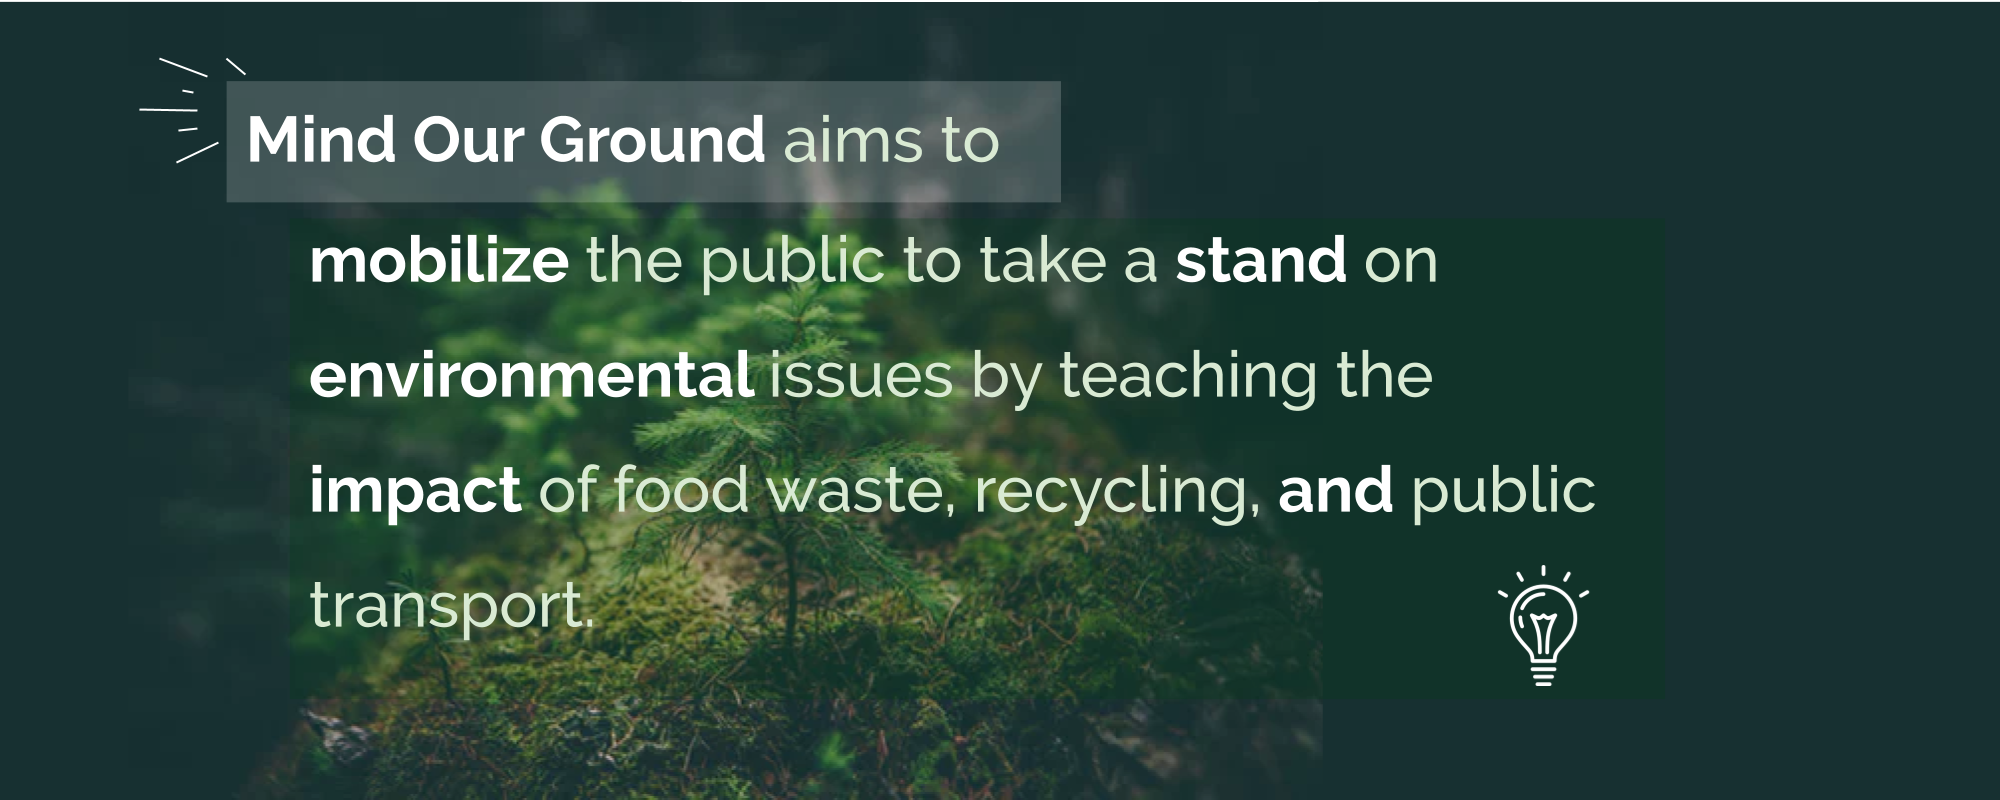
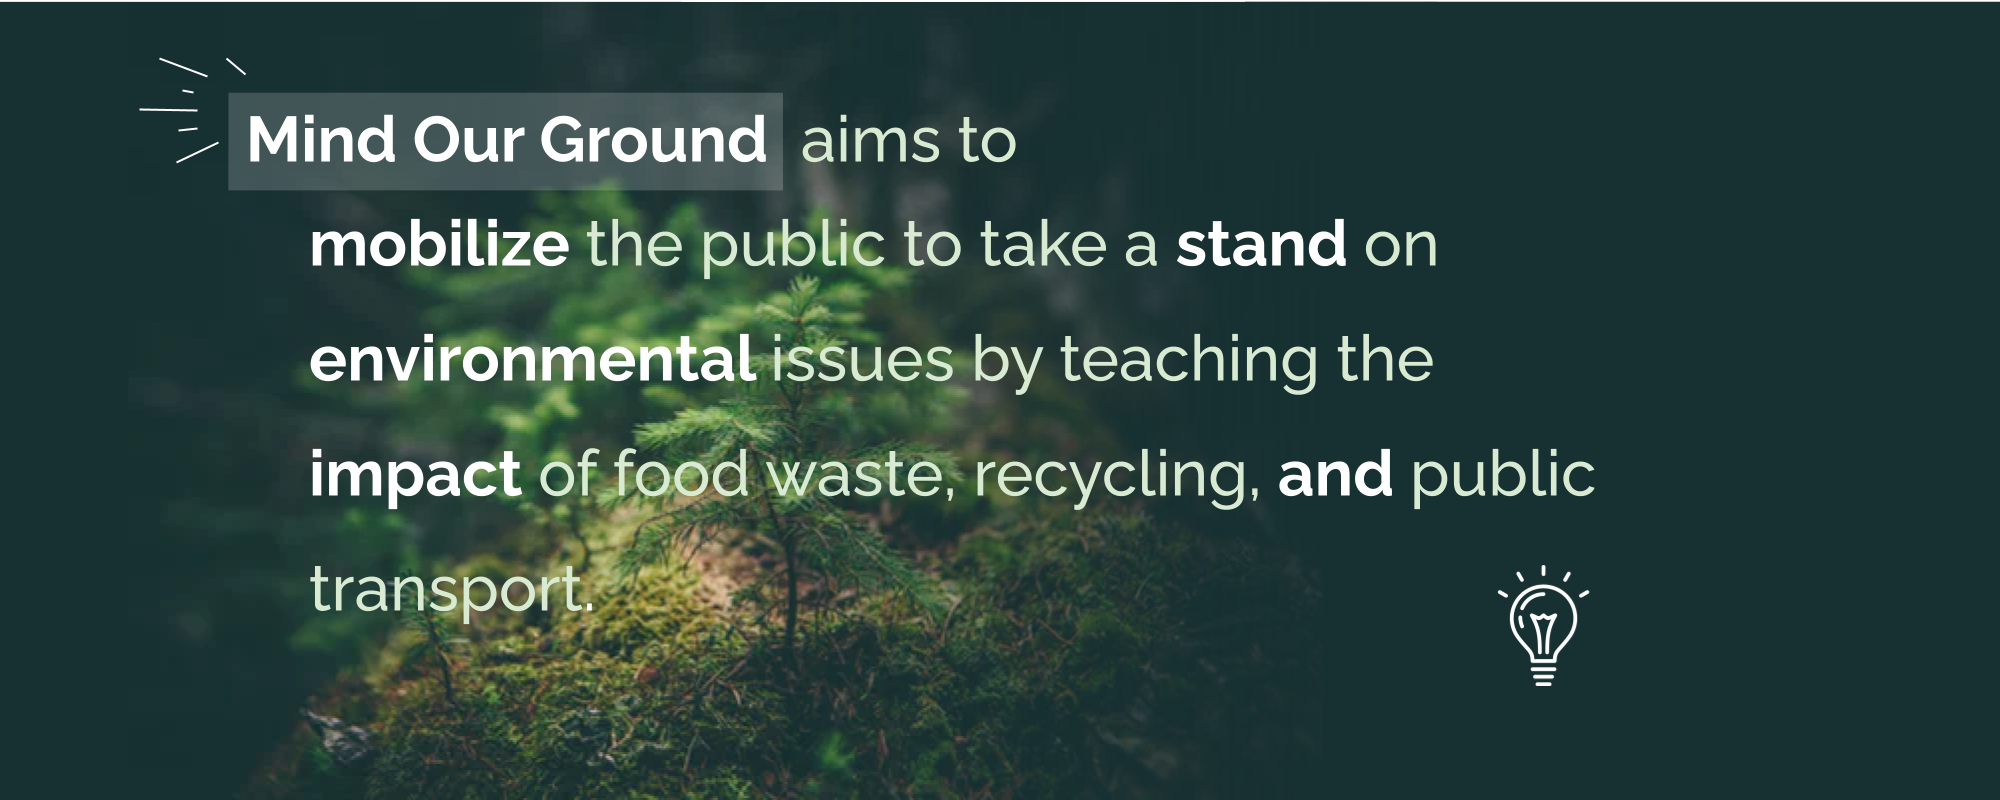
centered gallery and header

Changed region(s): [[0.093, 0.0938, 0.806, 0.875], [0.558, 0.9062, 0.589, 0.9688]]

diff --git a/index.html b/index.html
@@ -5,44 +5,37 @@
   <link href='https://fonts.googleapis.com/css?family=Raleway:300,700' rel='stylesheet'>
   <link rel="stylesheet" type="text/css" href="styles.css">
   <script src="main.js"></script>
+
   <link rel="shortcut icon" href="fav.png" type="image/x-icon" style = width: 100px>
-  <title>Mind Our Ground</title>
+  <title> Mind Our Ground</title>
 </head>
 
 <body>
 
-<!-- NAV BAR -->
-<style>
 
-.sticky {
-  top:0px;
-  z-index: 1;
-  position: fixed;
-  width: 100%;
-}
-
-</style>
-</head>
 <body>
 
-<div class="header" id="myHeader"style="z-index: 7">
-
+  <!-- nav bar, html css js -->
+<div id = "myHeader" style = "z-index: 7">
   <div class = "head">
-  <id="navbar" display:inline-block;>
+  <id="navbar" style = "display: inline-block; ">
       <table id = "navbar">
         <tr>
-          <th><button id="navbar" class="logo" onclick="location.href='index.html'"> <img src="unnamed.png" style= width:250px; height:200px/> </button></th>
-          <th id = "home"><button class="butn home" onclick="location.href='index.html'"> home </button></th>
-          <th id = "waste"><button class="bttn waste" onclick="location.href = 'waste.html'"> waste </button></th>
-          <th><button class="bttn recycling" onclick="location.href = 'recycling.html'"> recycling </button></th>
-          <th><button class="bttn transport" onclick="location.href = 'transport.html'"> transport </button></th>
-          <th id = "about"><button class="bttn about" onclick="location.href = 'about.html'"> about </button></th>
+          <th> <button id="navbar" class="logo" onclick="location.href='index.html'"> <img src="unnamed.png" style = "width:250px;"/> </button> </th>
+
+          <th id = "home"> <button class= "butn home" onclick = "location.href = 'index.html'"> home </button> </th>
+          <th id = "waste"> <button class = "bttn waste" onclick = "location.href = 'waste.html'"> waste </button> </th>
+          <th> <button class = "bttn recycling" onclick = "location.href = 'recycling.html'"> recycling </button> </th>
+          <th> <button class = "bttn transport" onclick = "location.href = 'transport.html'"> transport </button> </th>
+          
+          <th id = "about" ><button class = "bttn about" onclick = "location.href = 'about.html'"> about </button> </th>
       </table>
   </div>
 </div>
 
+<!-- sticky header -->
 <script>
-window.onscroll = function() {myFunction()};
+window.onscroll = function() {sticky()};
 
 var header = document.getElementById("myHeader");
 var sticky = header.offsetTop;
@@ -58,24 +51,23 @@ function myFunction() {
 
 
 
-<!-- GALLERY -->
+<!-- gallery -->
 
 <html>
-  <div class="slideshow-container">
+  <div class = "slideshow-container" style = "margin: auto; ">
 <ul>
-  <div class="mySlides fade">
-    <div class="numbertext">1/6</div>
-    <li class="crop">
-        <img src="1.png" />
+  <div class = "mySlides fade">
+    <div class = "numbertext"> 1/6 </div>
+    <li class = "crop">
+        <img src = "1.png" />
     </li>
-
-    <div class="text">   our  m i s s i o n   </div>
+    <div class = "text">   our mission   </div>
   </div>
 
-  <div class="mySlides fade">
-    <div class="numbertext">2/6</div>
-    <li class="crop">
-        <img src="2.jpg" />
+  <div class = "mySlides fade">
+    <div class = "numbertext"> 2/6 </div>
+    <li class = "crop">
+        <img src = "2.jpg" />
   </div>
 
   <div class="mySlides fade">
@@ -112,7 +104,7 @@ function myFunction() {
   </div>
   <br>
 
-  <div style="text-align:center">
+  <div class = "dotdisplay" style="text-align:center">
     <span class="dot" onclick="currentSlide(1)"></span>
     <span class="dot" onclick="currentSlide(2)"></span>
     <span class="dot" onclick="currentSlide(3)"></span>
@@ -121,6 +113,7 @@ function myFunction() {
     <span class="dot" onclick="currentSlide(6)"></span>
   </div>
 </html>
+
 <script>
   var slideIndex = 1;
   showSlides(slideIndex);

diff --git a/styles.css b/styles.css
@@ -7,25 +7,38 @@
 
 
 
-/* nav bar */
+/* nav bar bkgd */
 .head {
   text-align: center;
   background-color: #fafafa;
   font-size: 30px;
   border-radius:0px;
 }
+
+.sticky {
+  top: 0px;
+  z-index: 1;
+  position: fixed;
+  width: 100%;
+}
+
+/* nav bar spacing */
 #home {
   text-align:right;
-  width:200px;
+  width:20%;
 }
+
 #waste {
   width:150px;
   text-align:right;
 }
+
 #about {
   width:150px;
   text-align:right;
 }
+
+/* button interactivity */
 .butn {
   border: solid green;
   border-width: thin;
@@ -71,14 +84,6 @@
 
 
 
-
-
-
-
-
-
-
-
 /* gallery */
 * {box-sizing: border-box}
 .mySlides {display: none}
@@ -87,11 +92,11 @@ img {vertical-align: middle;}
 
 /* Slideshow container */
 .slideshow-container {
-  max-width: 1000px;
+  object-fit: cover;
   position: relative;
-  margin: inherit;
-  padding: 0 70px;
-  top:10px;
+  display: flex;
+  /* this one actually does something v */
+  justify-content: center;
   border-color:black;
   border-radius:15px;
 }
@@ -103,8 +108,8 @@ img {vertical-align: middle;}
   top: 50%;
   width: auto;
   padding: 16px;
-  margin-top: -22px;
-  margin-left:40px;
+  margin-top: -30px;
+  margin-left: -900px;
   color: white;
   font-weight: bold;
   font-size: 20px;
@@ -115,7 +120,7 @@ img {vertical-align: middle;}
 
 /* Position the "next button" to the right */
 .next {
-  left: 1027px;
+  left: 2195px;
   border-radius: 3px 0 0 3px;
 }
 
@@ -130,8 +135,8 @@ img {vertical-align: middle;}
   color: black;
   font-size: 20px;
   padding: 1px 14px;
-  position: absolute;
-  bottom: 10px;
+  position: relative;
+  bottom: 40px;
   width: 100%;
   text-align: center;
   font-family: 'Raleway', sans-serif;
@@ -149,19 +154,27 @@ img {vertical-align: middle;}
   color: white;
   font-size: 22px;
   padding: 8px 9px;
-  position: absolute;
-  top: 5px;
+  position: relative;
+  top: 60px;
+  left: 10px;
 }
 
 /* The dots/bullets/indicators */
+.dotdisplay {
+  padding:10px;
+}
+
 .dot {
+  position:relative;
+  top:-45px;
+  left:20px;
   cursor: pointer;
   height: 15px;
   width: 15px;
   margin: 0 2px;
   background-color: #bbb;
   border-radius: 50%;
-  display: inline-block;
+  display: inline-flex;
   transition: background-color 0.6s ease;
 }
 

diff --git a/waste.html b/waste.html
@@ -15,40 +15,23 @@
 
 <body>
 
-<div class="head" id="myHeader">
 
-  <div class = "head">
-  <id="navbar" display:inline-block;>
-  <table id = "navbar">
-    <tr>
-      <th><button id="navbar" class="logo" onclick="location.href='index.html'"> <img src="unnamed.png" style= width:250px; height:200px/> </button></th>
-      <th id = "home"><button class="bttn home" onclick="location.href='index.html'"> home </button></th>
-      <th id = "waste"><button class="butn waste" onclick="location.href = 'waste.html'"> waste </button></th>
-      <th><button class="bttn recycling" onclick="location.href = 'recycling.html'"> recycling </button></th>
-      <th><button class="bttn transport" onclick="location.href = 'transport.html'"> transport </button></th>
-      <th id = "about"><button class="bttn about" onclick="location.href = 'about.html'"> about </button></th>
-  </table>
+  <div id = "myHeader" style = "z-index: 7">
+    <div class = "head">
+    <id="navbar" style = "display: inline-block">
+        <table id = "navbar">
+          <tr>
+            <th> <button id="navbar" class="logo" onclick="location.href='index.html'"> <img src="unnamed.png" style = "width:250px;"/> </button> </th>
+  
+            <th id = "home"> <button class= "bttn home" onclick = "location.href = 'index.html'"> home </button> </th>
+            <th id = "waste"> <button class = "butn waste" onclick = "location.href = 'waste.html'"> waste </button> </th>
+            <th> <button class = "bttn recycling" onclick = "location.href = 'recycling.html'"> recycling </button> </th>
+            <th> <button class = "bttn transport" onclick = "location.href = 'transport.html'"> transport </button> </th>
+            
+            <th id = "about" ><button class = "bttn about" onclick = "location.href = 'about.html'"> about </button> </th>
+        </table>
+    </div>
   </div>
-</div>
-
-
-
-
-
-
-
-
-
-
-
-
-
-
-
-
-
-
-
 
 
 
